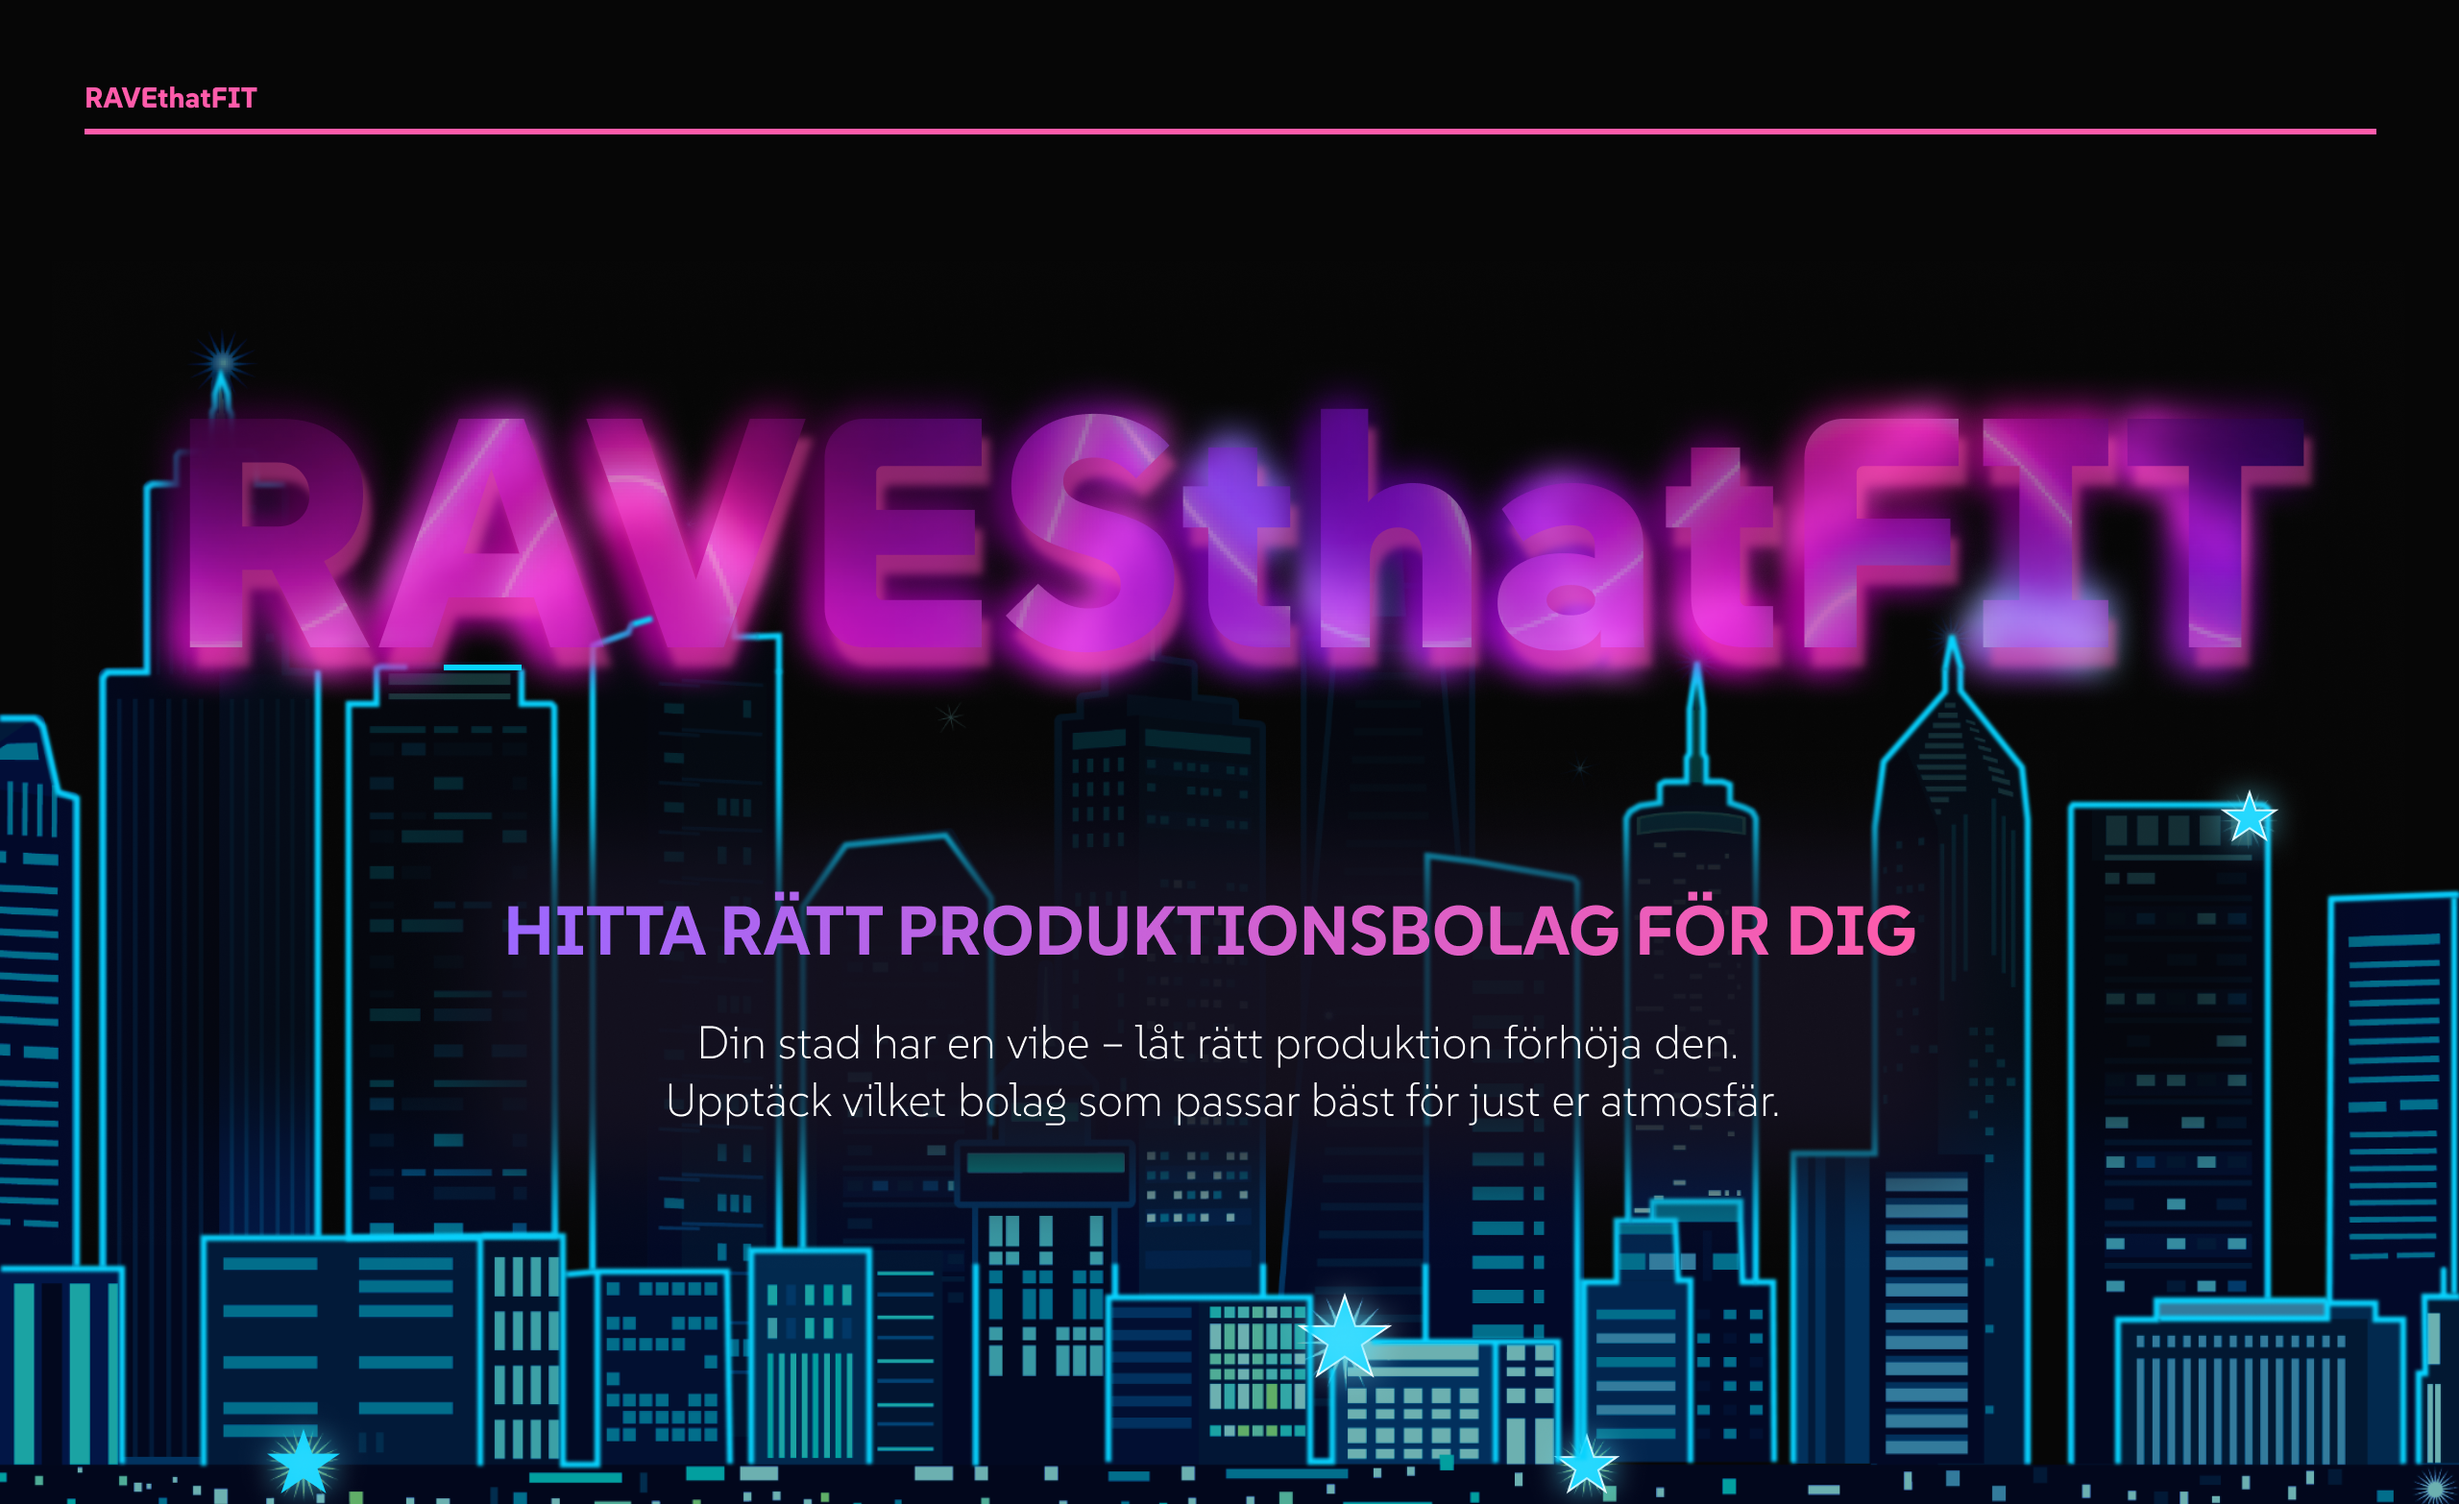
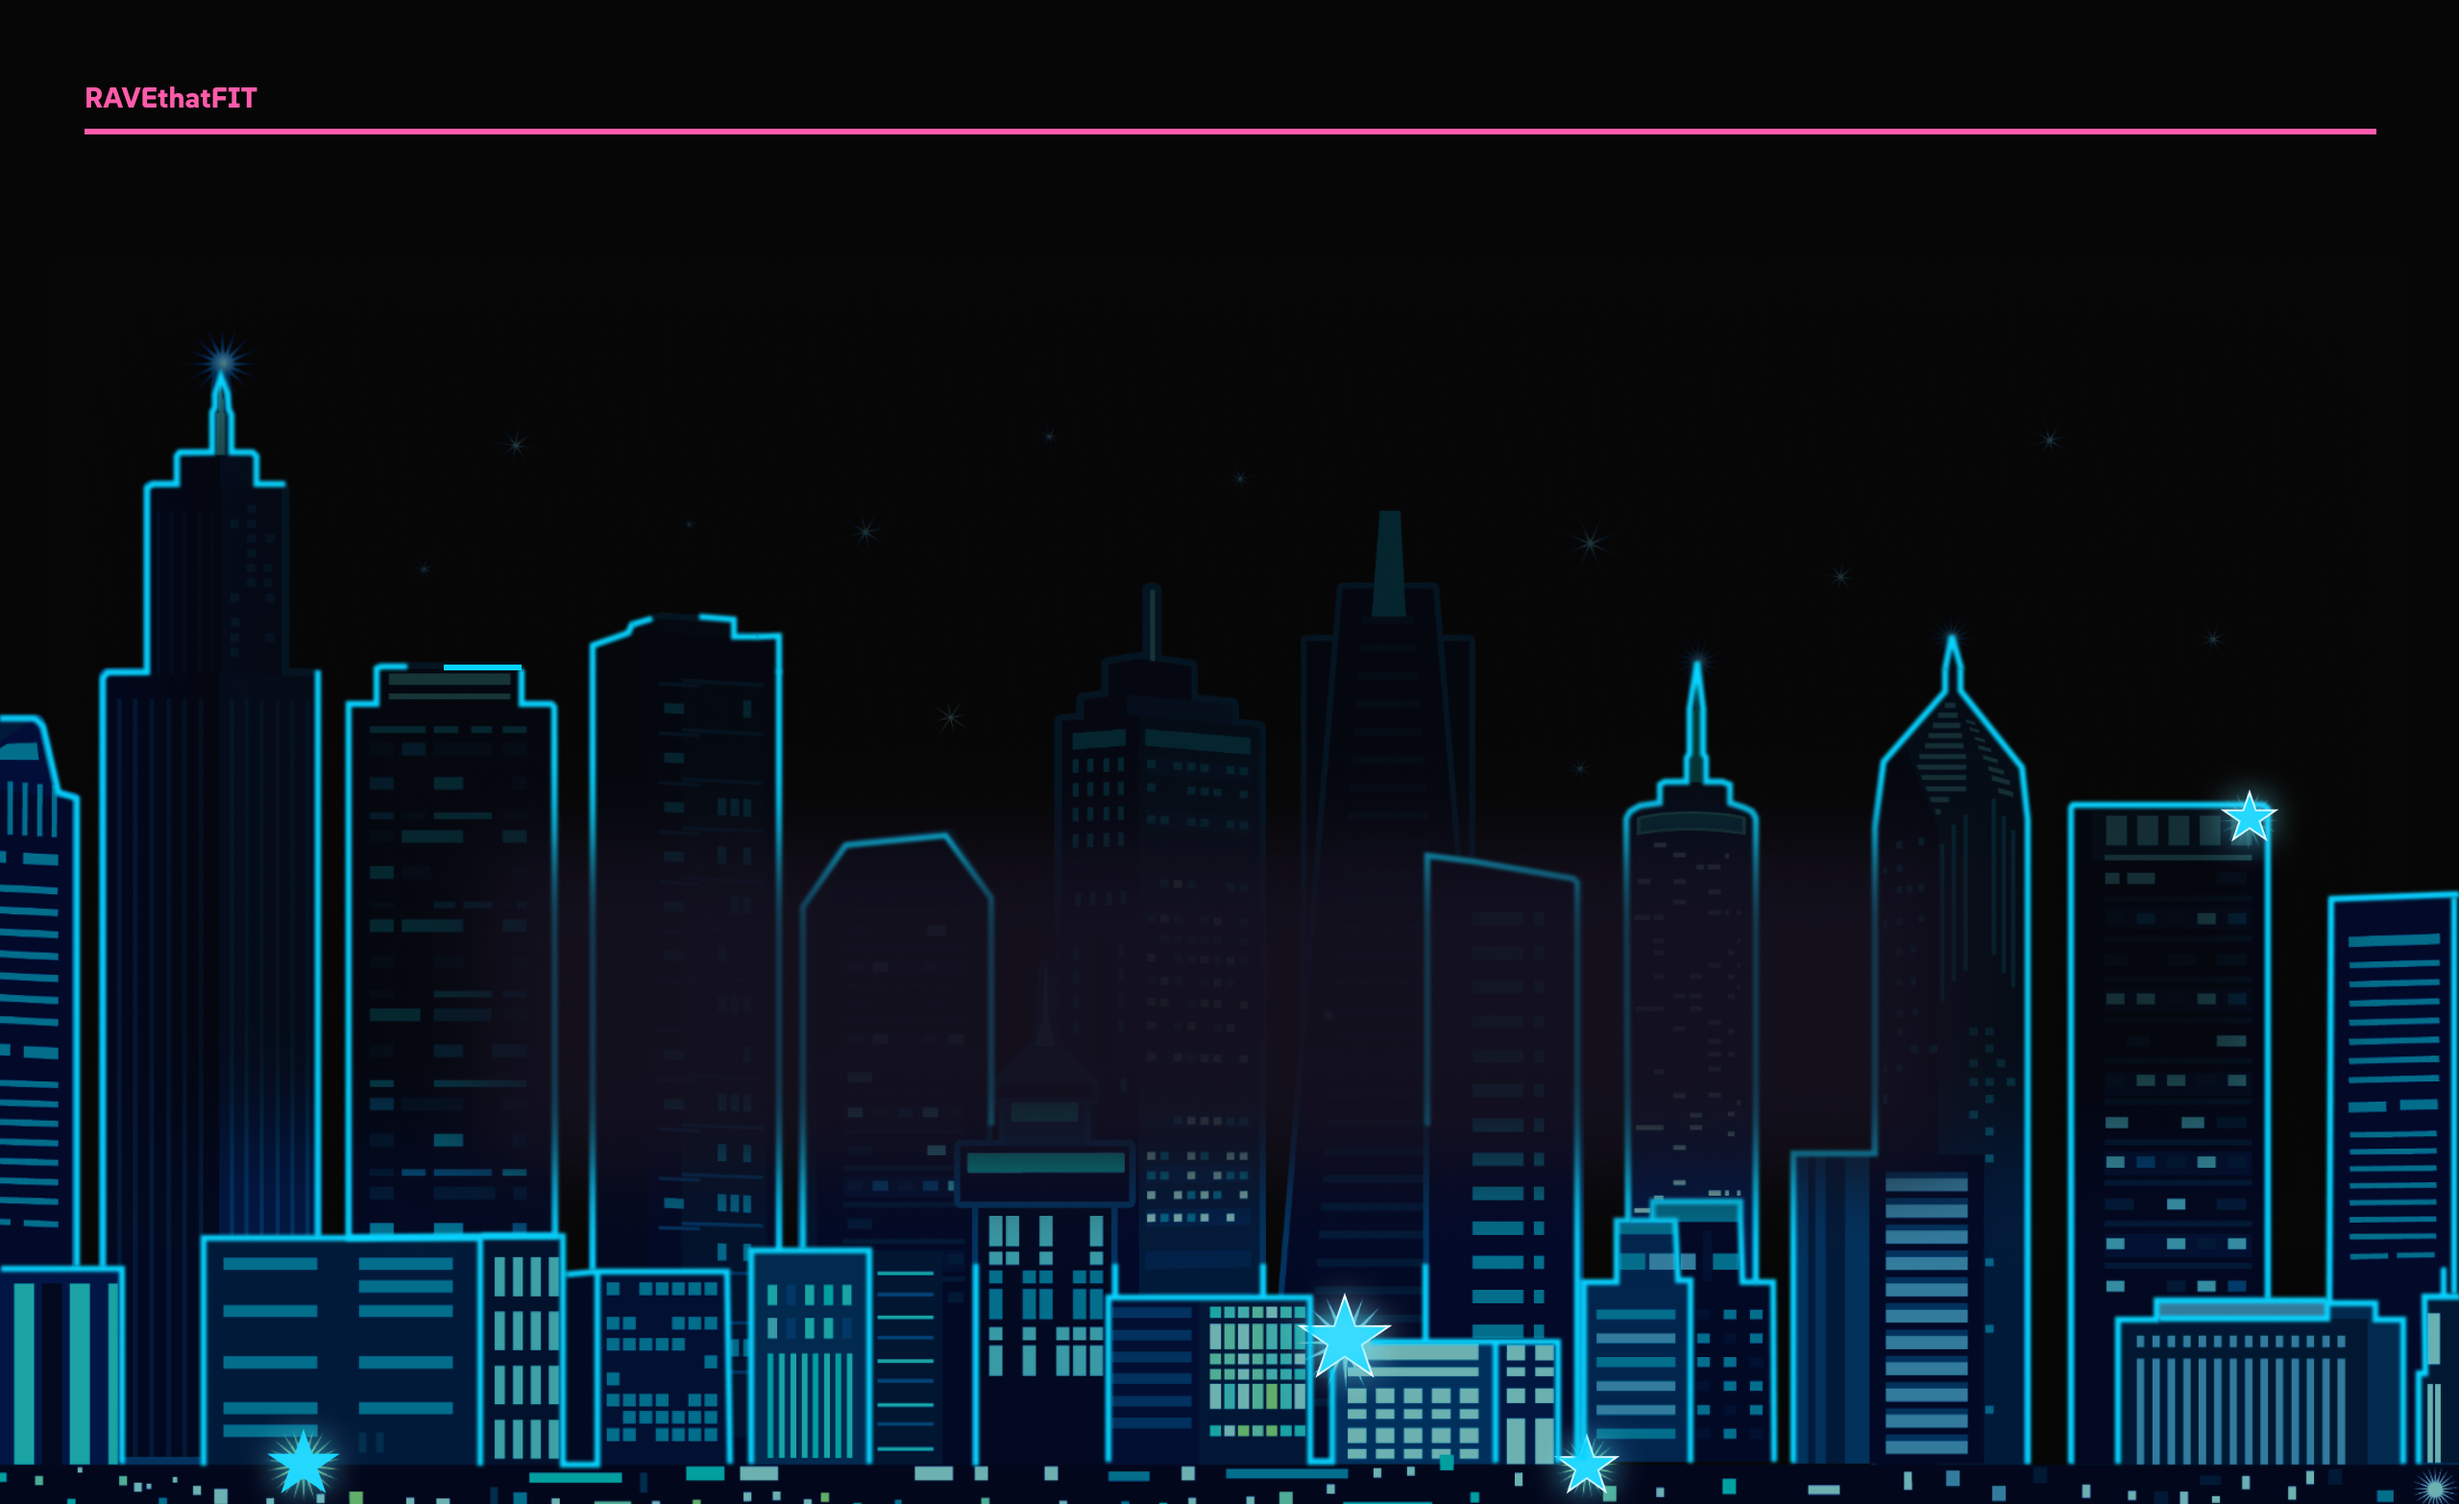
jag vet inte ens längre

diff --git a/public/components/header/header.js b/public/components/header/header.js
@@ -4,9 +4,11 @@ function renderHeader(parent) {
 
     parent.appendChild(headerDiv);
 
+
     let nav = document.createElement("nav");
     nav.id = "nav";
     nav.innerHTML = `
+    
     <div id="stad">
         <p>Du som stad</p>
     </div>
@@ -21,6 +23,16 @@ function renderHeader(parent) {
     `;
 
     headerDiv.appendChild(nav);
+
+    let raveLineCon = document.createElement("div");
+    raveLineCon.id = "raveLine";
+    raveLineCon.innerHTML = `
+    <img id="rave" src="./media/bilder/ravesthatfit.png" alt="headline">
+    <img id="line" src="./media/bilder/tagline.png" alt="tagline">
+    <p>Din stad har en vibe - låt rätt produktion förhöja den.<br>
+    Upptäck vilket bolag som passar bäst för just er atmosfär.</p>
+    `;
+    headerDiv.appendChild(raveLineCon);
 
 }
 

diff --git a/public/components/attendance/attendanceScale.js b/public/components/attendance/attendanceScale.js
@@ -5,10 +5,12 @@ function attendanceScale(parent) {
     const wrapInAttendanceElements = document.createElement("div");
     wrapInAttendanceElements.id = "wrapAttendance";
 
-    const cityHeadline = document.createElement("h2");
+    renderTransition(wrapInAttendanceElements, "city")
+
+    /*const cityHeadline = document.createElement("h2");
     cityHeadline.innerHTML = "VEM ÄR DU SOM STAD?";
     cityHeadline.classList.add("cityHeadline");
-    wrapInAttendanceElements.appendChild(cityHeadline);
+    wrapInAttendanceElements.appendChild(cityHeadline);*/
 
     const attendanceHeadline = document.createElement("h2");
     attendanceHeadline.innerHTML = "VEM DROG MEST <span class='attendanceHeadlineHL'>PUBLIK</span> GENOM ÅREN?";

diff --git a/public/components/header/header.css b/public/components/header/header.css
@@ -1,13 +1,38 @@
 #headerDiv {
-    height: 105vh;
     background-image: url("../../media/bilder/heroSectionFinal.png");
     background-size: cover;
 
     display: flex;
+    flex-direction: column;
+}
+
+#raveLine {
+    display: flex;
+    flex-direction: column;
+    align-items: center;
+
+}
+
+#raveLine p {
+    font-size: 16px;
+    text-align: center;
+    line-height: 1.5;
+    margin-bottom: 8vw;
+}
+
+#rave {
+    height: 23vw;
+    width: 90vw;
+    margin-left: 9vw;
+    margin-top: 8.5vw;
+}
+
+#line {
+    height: 2.5vw;
+    width: 50vw;
 }
 
 #nav {
-    width: 100vw;
     display: flex;
     justify-content: end;
     gap: 3vw;

diff --git a/public/components/transition/transition.css b/public/components/transition/transition.css
@@ -10,7 +10,7 @@
     position: absolute;
     top: -6.5rem;
     z-index: -1;
-    left: 0;
+    left: -4rem;
 }
 
 .transitionProducers {

diff --git a/public/index.html b/public/index.html
@@ -17,6 +17,7 @@
 </head>
 
 <body>
+
     <div id="wrapper"></div>
 
     <script src="../d3.v7.min.js"></script>

diff --git a/public/components/attendance/attendanceScale.css b/public/components/attendance/attendanceScale.css
@@ -40,4 +40,5 @@
 
 #wrapAttendance {
     padding: 0 4rem;
+    position: relative;
 }
